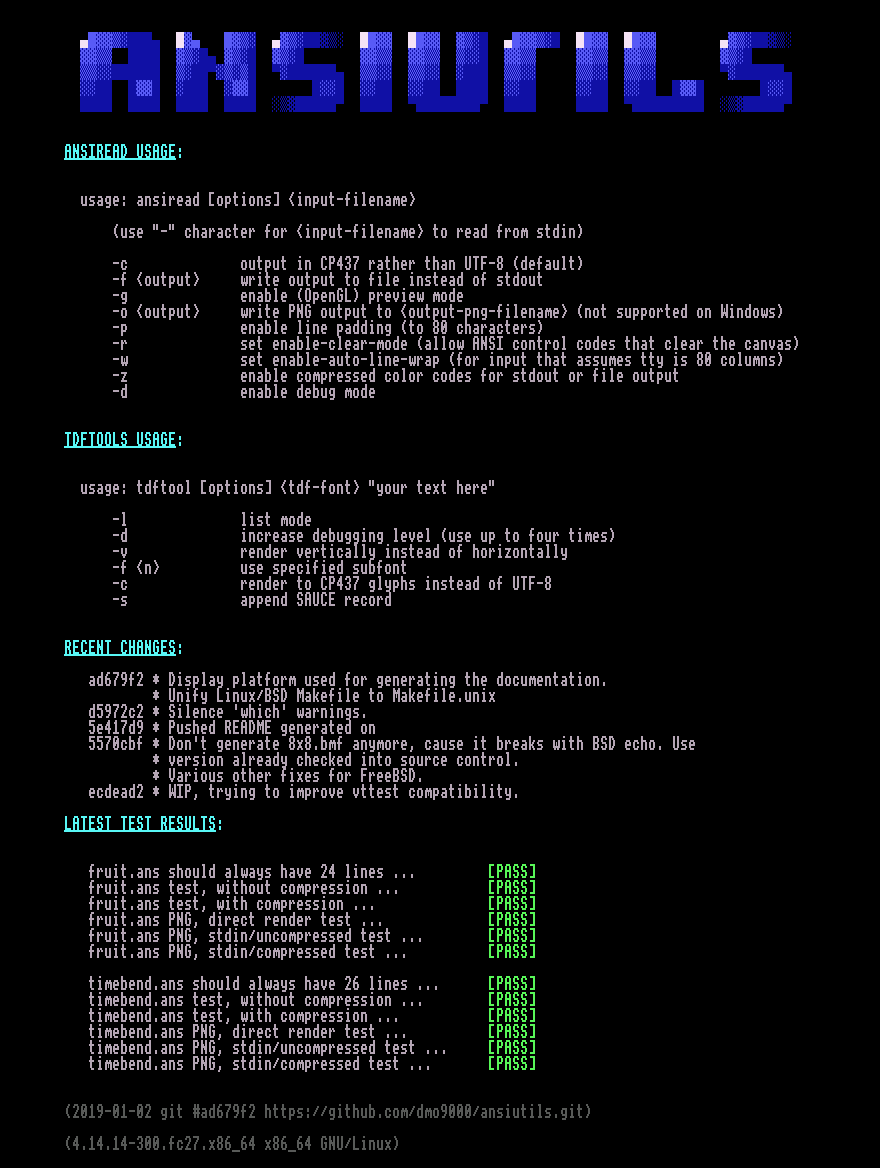
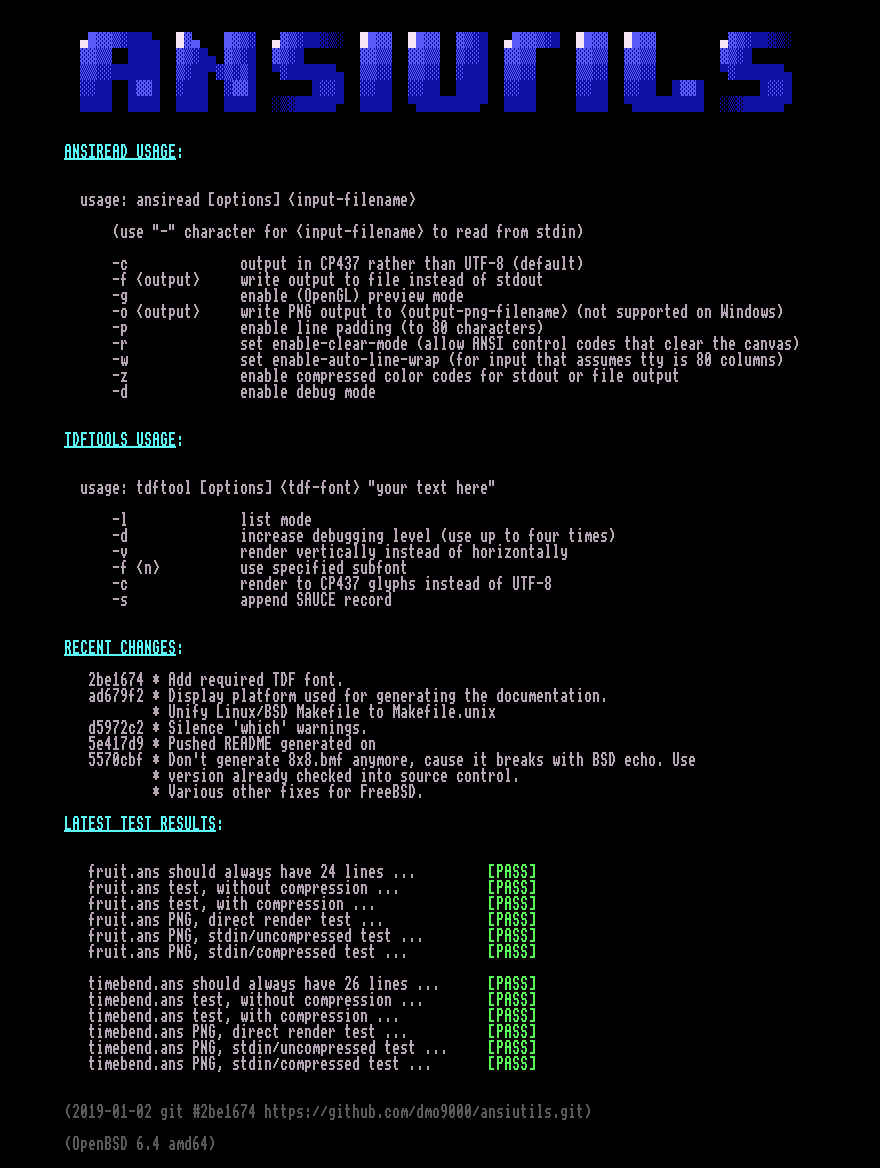
Various fixes for OpenBSD compat.

diff --git a/gfx_png.c b/gfx_png.c
@@ -1,4 +1,4 @@
-#include <SDL2/SDL.h>
+//#include <SDL2/SDL.h>
 #include <stdlib.h>
 #include <stdint.h>
 #include <stdbool.h>
